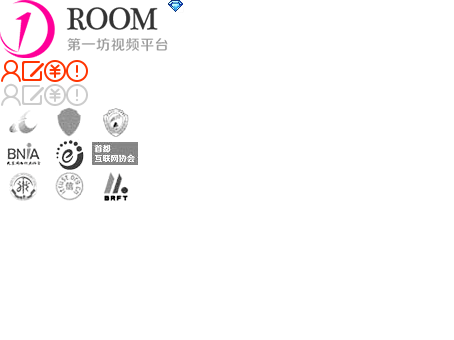
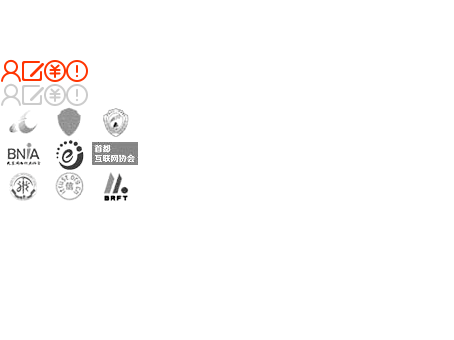
clean files

Changed region(s): [[0.1542, 0.0, 0.37, 0.1471], [0.0, 0.0, 0.1233, 0.1765], [0.37, 0.0, 0.4009, 0.0294]]

diff --git a/index.html b/index.html
@@ -73,21 +73,6 @@
 
     <div class="container">
         <div class="main-left">
-            <div class="main-item" id="inxResBox">
-                <div class="main-head">
-                    <h2 class="main-title">我的预约</h2>
-                    <a class="main-sub" href="/viewmore.html?tag=res">更多预约</a>
-                </div>
-                <div class="main-content clearfix" id="res"></div>
-            </div>
-
-            <div class="main-item" id="inxFavBox">
-                <div class="main-head">
-                    <h2 class="main-title">我的关注</h2>
-                    <a class="main-sub" href="/viewmore.html?tag=fav">更多直播</a>
-                </div>
-                <div class="main-content clearfix" id="fav"></div>
-            </div>
 
             <div class="main-item" >
                 <div class="main-head">
@@ -97,22 +82,6 @@
                 <div class="main-content clearfix" id="rec"></div>
             </div>
 
-            <div class="main-item" >
-                <div class="main-head">
-                    <h2 class="main-title">才艺主播</h2>
-                    <a class="main-sub" href="/viewmore.html?tag=gen">更多直播</a>
-                </div>
-                <div class="main-content clearfix" id="gen"></div>
-            </div>
-
-            <div class="main-item" >
-                <div class="main-head">
-                    <h2 class="main-title">一对一房间</h2>
-                    <a class="main-sub" href="/viewmore.html?tag=ord">更多</a>
-                </div>
-                <div class="main-content clearfix" id="ord"></div>
-            </div>
-            
             <div class="main-item" >
                 <div class="main-head">
                     <h2 class="main-title">会员专区</h2>
@@ -185,23 +154,7 @@
             </div>
         </div>
 
-        <div class="float-box">
-            <a class="float-box-item float-box-up" href="javascript:scroll(0,0);" id="float-box-up">
-                <div>回到顶部</div>
-            </a>
-
-            <a class="float-box-item float-box-dl" href="" target="_blank" id="float-box-dl" title="客户端下载">
-                <div>客户端下载</div>
-            </a>
-        </div>
-
     </div>
-    </div>
-</div>
-<div class="mail-check-wrap">
-    <div class="mail-check-dialog">
-        <div class="mail-check-close"></div>
-        <a href="/mailverific" target="_blank" class="mail-check-reg"></a>
     </div>
 </div>
 

diff --git a/public/.cross.concat.js b/public/.cross.concat.js
@@ -1,0 +1,3 @@
+window.UED_PUBLISH_VERSION = "v2015112401";
+window.UED_SUB_PUBLISH_VERSION = "1.0";
+window.UED_LIST = {"commonCss.css":["module/reset.css","module/common.less"],"commonJs.js":["widget/jquery.cookie.js","module/dialog.js","module/validation.js","module/utility.js","service/captcha.js","module/user.js","service/user.js","module/dropdown.js","module/common.js"],"indexCss.css":["widget/flexslider.less","module/task.less","page/page-index.less"],"indexJs.js":["module/info-panel.js","module/array.js","module/task.js","module/room-pwd.js","widget/jquery.flexslider.js","page/page-index.js"],"rankCss.css":["page/page-rank.less"],"rankJs.js":["module/info-panel.js","page/page-ranking.js"],"aboutCss.css":["page/page-about.less"],"aboutJs.js":["page/page-about.js"],"agreementJs.js":["page/page-bus-agree.js"],"signupJs.js":["page/page-bus-signup.js"],"anchorCss.css":["widget/uploadify.css","page/page-mem-anchor.less"],"anchorJs.js":["page/page-mem-anchor.js"],"attentionCss.css":["page/page-mem-attention.less"],"attentionJs.js":["module/info-panel.js","page/page-mem-attention.js"],"shopCss.css":["module/noble.less","page/page-mem-shop.less"],"shopJs.js":["module/noble.js","module/shop.js","page/page-mem-shop.js"],"memberIndexCss.css":["page/page-mem-index.less","widget/uploadify.css"],"memberIndexJs.js":["widget/ctry/select.js","widget/uploadify/jquery.uploadify.js","page/page-mem-index.js"],"memberLinkCss.css":["page/page-mem-link.less"],"memberLinkJs.js":["page/page-mem-invite.js"],"memberMsgCss.css":["page/page-mem-msg.less"],"memberMsgJs.js":["page/page-mem-sysmsg.js"],"memberSceneCss.css":["page/page-mem-scene.less"],"busCss.css":["page/page-business.less"],"spaceCss.css":["page/page-space.less"],"chargeCss.css":["page/page-charge.less"],"chargeJs.js":["page/page-charge.js"],"mailCss.css":["page/page-mail.less"],"mailJs.js":["page/page-mail.js"],"roomsetCss.css":["page/page-mem-roomset.less"],"roomsetJs.js":["page/page-mem-roomset.js"],"liveCss.css":["module/noble.less","page/page-live.less"],"liveJs.js":["widget/swfobject.js","module/noble.js","page/page-live.js"],"nobleCss.css":["module/noble.less","page/page-noble.less"],"nobleJs.js":["module/noble.js","page/page-noble.js"]};

diff --git a/public/dev/css/module/common.css b/public/dev/css/module/common.css
@@ -270,7 +270,7 @@ button.blueButton {
   background-position: 0px 0px;
   float: left;
   display: block;
-  background-image: url(../i/header.png);
+  background-image: url(../i/logo.jpg);
 }
 /* 头部导航 */
 .headNav {

diff --git a/public/css/module/head.less b/public/css/module/head.less
@@ -22,9 +22,10 @@
 		background-position: 0px 0px;
 		float: left;
 		display: block;
-		background-image: url(../i/header.png);
+		background-image: url(../i/logo.jpg);
 	}
 }
+
 
 /* 头部导航 */
 .headNav{
